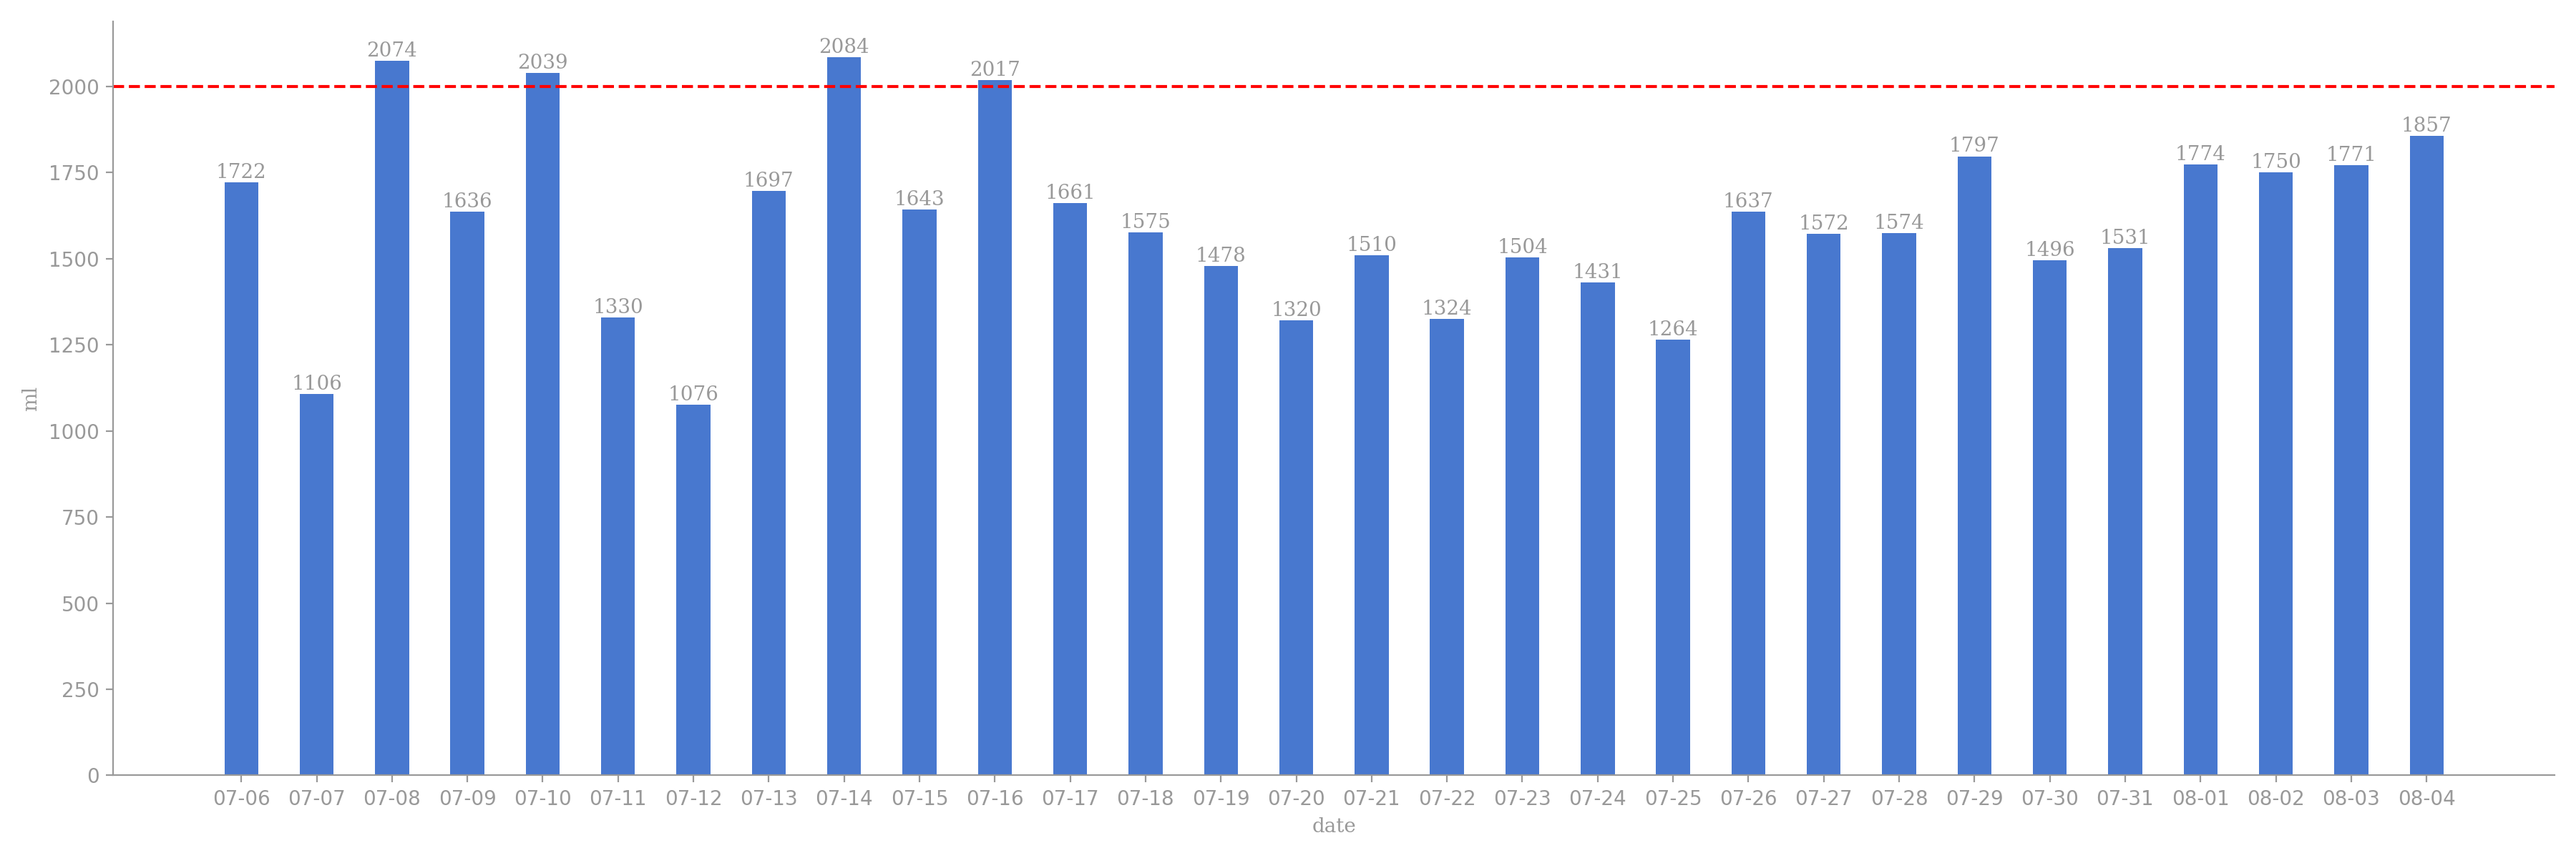
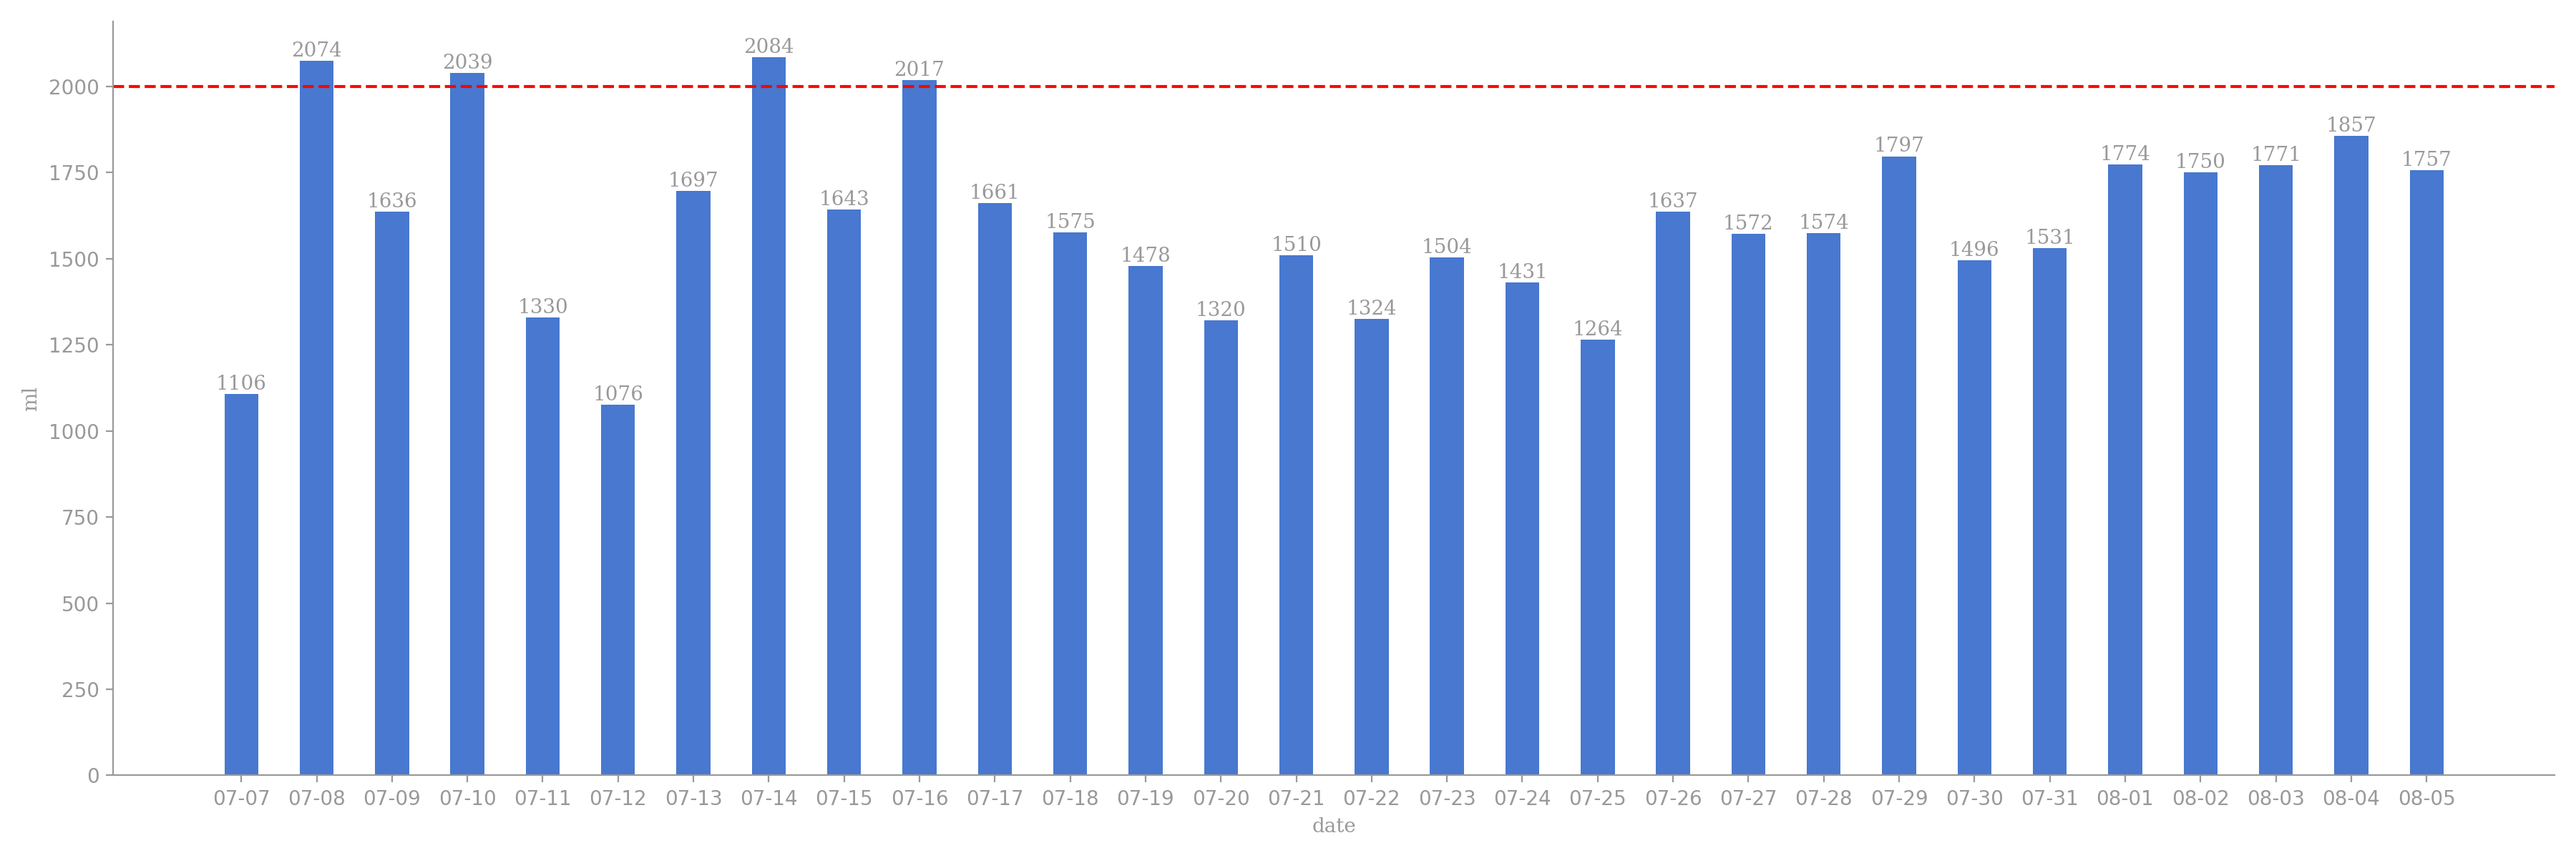
crontab auto git

Changed region(s): [[0.28, 0.0308, 0.9644, 0.4008], [0.0622, 0.0617, 0.28, 0.4933]]

diff --git a/README.md b/README.md
@@ -1,17 +1,3 @@
-# 今日饮水数据
-
-<div align=center>
-<img src="today.png" style="zoom: 100%;" />
-
-| 今日总饮水量 | 每小时平均饮水量 |
-| :----: | :----: |
-| 1757 | 125 |
-</div>
-
-| 日期 | 01:06:09 | 01:33:51 | 02:47:30 | 03:18:44 | 05:52:05 | 07:32:48 | 08:23:34 | 16:22:04 | 17:21:13 | 18:09:04 | 19:02:29 | 20:38:27 | 20:53:08 | 21:32:27 | 22:46:52 | 23:33:58 |
-| :----: | :----: | :----: | :----: | :----: | :----: | :----: | :----: | :----: | :----: | :----: | :----: | :----: | :----: | :----: | :----: | :----: |
-| 2025-08-05 | 84 | 102 | 92 | 81 | 250 | 101 | 91 | 63 | 147 | 34 | 91 | 73 | 286 | 46 | 114 | 102 |
-
 # 近30日饮水数据
 
 <div align=center>
@@ -19,8 +5,12 @@
 
 | 总饮水量 | 日均饮水量 |
 | :----: | :----: |
-| 48250 | 1608 |
+| 48285 | 1609 |
 </div>
+
+| 日期 | all | 01:06:09 | 01:33:51 | 02:47:30 | 03:18:44 | 05:52:05 | 07:32:48 | 08:23:34 | 16:22:04 | 17:21:13 | 18:09:04 | 19:02:29 | 20:38:27 | 20:53:08 | 21:32:27 | 22:46:52 | 23:33:58 |
+| :----: | :----: | :----: | :----: | :----: | :----: | :----: | :----: | :----: | :----: | :----: | :----: | :----: | :----: | :----: | :----: | :----: | :----: |
+| 2025-08-05 | 1757 | 84 | 102 | 92 | 81 | 250 | 101 | 91 | 63 | 147 | 34 | 91 | 73 | 286 | 46 | 114 | 102 |
 
 | 日期 | all | 01:11:34 | 02:56:14 | 03:58:15 | 06:03:11 | 07:06:49 | 07:37:59 | 08:10:07 | 15:41:23 | 18:48:49 | 19:15:42 | 21:12:20 | 23:27:20 |
 | :----: | :----: | :----: | :----: | :----: | :----: | :----: | :----: | :----: | :----: | :----: | :----: | :----: | :----: |
@@ -141,8 +131,4 @@
 | 日期 | all | 01:35:12 | 03:27:07 | 04:08:24 | 05:56:17 | 06:21:59 | 07:25:40 | 09:03:22 | 16:57:21 | 17:29:19 | 20:40:09 | 21:12:56 | 22:35:46 |
 | :----: | :----: | :----: | :----: | :----: | :----: | :----: | :----: | :----: | :----: | :----: | :----: | :----: | :----: |
 | 2025-07-06 | 1722 | 101 | 83 | 79 | 250 | 87 | 63 | 63 | 46 | 183 | 294 | 73 | 400 |
-
-| 日期 | all | 02:45:54 | 03:26:35 | 03:54:24 | 05:55:30 | 06:54:10 | 07:46:53 | 09:31:28 | 19:17:50 | 20:23:22 | 22:11:29 | 23:56:48 |
-| :----: | :----: | :----: | :----: | :----: | :----: | :----: | :----: | :----: | :----: | :----: | :----: | :----: |
-| 2025-07-05 | 1492 | 186 | 76 | 44 | 250 | 60 | 182 | 112 | 300 | 127 | 74 | 81 |
 
